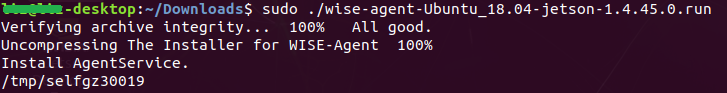
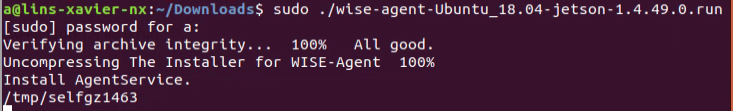
Commit message

Changed region(s): [[0.0, 0.0, 1.0, 1.0]]

diff --git a/CollectDataForAnalytics.md b/CollectDataForAnalytics.md
@@ -1,1 +1,144 @@
-*(To be published soon, email wowaiot.wseg@advantech.com to get notified)*
+# OPS | Collect data for analytics
+
+Here will introduce a process to obtain an original image before inferencing and then send it to Edge Impulse studio to increase data for next retraining. Moreover it also collect inference results and reserve them in DeviceOn for further analysis later.
+
+## Turn on upload synchronization settings in DeviceOn server web UI
+
+* Click `System` in the `Settings` menu on the left.
+* In the upper right options, click `System Settings` and then select `Devic File Synchonization` from the drop-down menu of `Item`.
+* The default value of `Sync Interval(minute)` is `10` minutes as a period for synchronous uploading.
+
+>NOTE: If you do not see the above menu, please contact your `Device` administrators to modify your account access permission.
+
+<p align="center">
+  <img width="600" src="image\Collect_data_for_analytics_01.png">
+</p>
+
+* Next click `List` in the `Device` menu on the left.
+* Click the `MORE` icon on the right side of the device `air020`.
+
+<p align="center">
+  <img width="600" src="image\Collect_data_for_analytics_02.png">
+</p>
+
+* Check if 'Devic File Synchonization' is enabled and then click `Confirm` to complete the setup.
+
+<p align="center">
+  <img width="600" src="image\Collect_data_for_analytics_03.png">
+</p>
+
+* Back to the edge device (AIR-020), let's create directories for saving captured images and inference results.
+
+```sh
+cd /opt/linux-sdk-python/examples/image
+sudo mkdir Original_Image
+sudo mkdir Inference_results
+```
+
+* Then specify the upload synchronization directory on the edge device (AIR-020) by editing the `FileSync.ini` file.
+
+```sh
+sudo gedit /usr/local/AgentService/FileSync.ini
+```
+
+* In the `FileSync.ini` file, change `Dir=XXX...` to the specified `Dir=/opt/linux-sdk-python/examples/image/Inference_results`.
+* Then click `Save` to save and close the `FileSync.ini` file.
+
+<p align="center">
+  <img width="600" src="image\Collect_data_for_analytics_04.png">
+</p>
+
+* After restarting the AIR-020 and the inference app will be launched automatically as well.
+* Go to the `DeviceOn` server web UI, click `List` in `Device` on the left menu.
+* Click the `MORE` icon on the right side of `air020`.
+* Check whether its `Local Path:` of `Device File Synchronization` is `/opt/linux-sdk-python/examples/image/Inference_results`.
+
+<p align="center">
+  <img width="600" src="image\Collect_data_for_analytics_05.png">
+</p>
+
+* In this repo, the DEMO app will save a captured image and its inference result into respective directories in AIR-020 per five seconds.
+
+<p align="center">
+  <img width="600" src="image\Collect_data_for_analytics_06.png">
+</p>
+
+* After starting the inference app for ten minutes, go to the DeviceOn server web UI and then click its left menu `Event Log` to be able to find the data transferring information.
+
+<p align="center">
+  <img width="600" src="image\Collect_data_for_analytics_07.png">
+</p>
+
+* In addition, captured images in the `Original_Image` directory can be uploaded to the `Edge Impulse` platform according to the section of [OPS | Collect data for model retraining](CollectDataForRe-training.md).
+
+## How to modify the period for saving inference result at AIR-020 
+* For example, modify the default vaule of `5` in `/opt/linux-sdk-python/examples/image/classify.py`, as shown in the column 203 therein.
+* `5` means to save data per five seconds. If it's changed to `6`, it will save data per six seconds correspondingly.
+
+```sh
+if (seconds % 5) == 0 and (seconds > sec_list1) :
+```
+
+* To stop saving data at AIR-020, use the symbol `"""` to igore the following codes from the column `203` to `230`.
+
+```sh
+"""
+if (seconds % 5) == 0 and (seconds > sec_list1) : 
+			#seconds.tm_sec = seconds.tm_sec + 1
+			#if n == 1:
+	###
+	local_time = time.localtime()
+	timeString = time.strftime("%Y_%m_%d_%H_%M_", local_time)
+	###
+	i = i + 1
+
+	print ('img.shape2', original_image.shape)
+	#original_img_pad = "./Original_image/" + str(timeString) + str(i)+".jpg"
+	#cv2.imwrite(original_img_pad, original_image)
+			
+	img_pad = "/opt/linux-sdk-python/examples/image/Inference_results/" + str(timeString) + str(i)+".jpg"
+	cv2.imwrite(img_pad, cv2.cvtColor(img, cv2.COLOR_RGB2BGR))
+	timestamp = str(timeString) + str(i)
+	data_list_1.insert(0, timestamp)
+
+	with open('/opt/linux-sdk-python/examples/image/Inference_results/Inference_results.csv', 'a') as file:
+		#writer = csv.writer(file,delimiter=';')
+		writer = csv.writer(file)
+		#for item in str(data_list_1):
+		 #   writer.writerows(item)
+		writer.writerow((data_list_1))
+
+
+	seconds_1 = int(seconds_threshold) + 1
+	sec_list.append(seconds_1)
+"""
+```
+
+## How to modify the period for saving a captured image at AIR-020 
+* For example, modify the default vaule of `5` in `/opt/linux-sdk-python/edge_impulse_linux/image.py`, as shown in the column 75 therein.
+* `5` means to save a image per five seconds. If it's changed to `6`, it will save data per six seconds correspondingly.
+
+```sh
+if (seconds % 5) == 0:
+```
+
+* To stop saving images at AIR-020, use the symbol `"""` to igore the following codes from the column `75` to `88`.
+
+```sh
+"""
+if (seconds % 5) == 0:
+	local_time = time.localtime()
+	timeString = time.strftime("%Y_%m_%d_%H_%M_%S_", local_time)
+	img_test = img
+	i = 1
+	
+	img_pad = "Original_image/"+str(timeString) +".jpg"
+	if os.path.isfile(img_pad) == True:
+		#cv2.imwrite("Original_image/"+timeString+"NG.jpg",img_test)
+		print #("YA" )
+	else:
+		#print ("NO YA")
+		cv2.imwrite(img_pad, img_test)
+	i = i + 1
+"""
+```

diff --git a/DeployAIToAnyEdge.md b/DeployAIToAnyEdge.md
@@ -6,11 +6,70 @@ Through the IoT device platform called `DeviceOn` to provide OTA deployment to h
 - [A 90-day trial key](https://www.youtube.com/watch?v=tjZUchu0v2I&t=64s) for DeviceOn server activation.
 - AIR-020 with Linux [Ubuntu 18.04](https://campaign.advantech.online/en/embedded_software/index.html)/[JetPack 4.5.1(or later)](http://ess-wiki.advantech.com.tw/view/IoTGateway/BSP/Linux/OS_Support_List_Jetpack_4.5.1_L4T_R32.5.1) ready.
 
+## Install Edge Impulse Linux Python SDK in AIR-020
+
+* Install necessary Python packages with the following commands.
+
+```sh
+sudo apt install python3-pip
+
+sudo apt install python3-testresources
+
+sudo apt-get install python3-pyaudio
+```
+
+> NOTE: Please remember to use *Root* privileges by this command.
+
+```sh
+sudo su
+```
+
+* Download a verified Linux Python SDK package from this Github post.
+
+```sh
+cd /opt
+git clone https://github.com/hsulin0806/linux-sdk-python_20230103.git
+```
+
+* Modify the directory name of the downloaded Linux Python SDK.
+
+```sh
+mv linux-sdk-python_20230103 linux-sdk-python
+```
+
+* It's recommanded to set up and use a Python virtual environment to avoid messing up the orginal operation system settings.
+
+```sh
+python3 -m venv --system-site-packages EI_DEMO
+
+source ./EI_DEMO/bin/activate
+```
+
+* Then install other required packages.
+
+```sh
+pip3 install --upgrade pip
+
+pip3 install scikit-build
+
+pip3 install protobuf==3.3.0
+
+python3 -m pip install edge_impulse_linux==1.0.7
+
+python3 -m pip install numpy==1.19.4
+```
+
+* The above completes the runtime installation required by the introduced DEMO application to run on AIR-020.
+
+<p align="center">
+  <img width="600" src="image\Deploy_AI_to_any_edge_00.png">
+</p>
+
 ## Connect AIR-020 to DeviceOn server
 In this repo, we used DeviceOn to simplify and accelerate the whole pipeline of edge AI development and deployment.
 
 #### 1. Install WISE-Agent in your AI device
-* Install [WISE-Agent](https://eiot.blob.core.windows.net/deviceon/WISE-Agent.zip) with the file of `wise-agent-Ubuntu_18.04-jetson-1.4.45.0.run` (or later) therein for Unbuntu 18.04 that we implemented in this repo.
+* Install [WISE-Agent](https://eiot.blob.core.windows.net/deviceon/WISE-Agent.zip) with the file of `wise-agent-Ubuntu_18.04-jetson-1.4.49.0.run` (or later) therein for Unbuntu 18.04 that we implemented in this repo.
 
 <p align="center">
   <img width="600" src="image\Deploy_AI_to_any_edge_01.png">

diff --git a/EncapsulateAPortableAIApplication.md b/EncapsulateAPortableAIApplication.md
@@ -35,7 +35,8 @@ chmod 666 ~/EI_ABC.fifo
 exec 4<> ~/EI_ABC.fifo
 wait
 cp /home/modelfile_0456.eim ~/my_model.eim
-edge-impulse-linux-runner --api-key <API Key> --verbose --model-file ~/my_model.eim 2>&1 | tee >&4
+source /opt/EI_DEMO/bin/activate
+python3 /opt/linux-sdk-python/examples/image/classify.py ~/my_model.eim 
 ```  
 > Replace `<API Key>` with the `API Key` of the Edge Impulse project mentioned above.
 
@@ -44,13 +45,19 @@ edge-impulse-linux-runner --api-key <API Key> --verbose --model-file ~/my_model.
 ```sh
 [Unit]
 Description=EI_demo
+After=graphical-session.target multi-user.target website.service
 
 [Service]
 Environment=DISPLAY=:0
-Environment="XAUTHORITY=/path/to/xauthority"
+Environment=XAUTHORITY=/run/user/1000/gdm/Xauthority
+#Environment=XAUTHORITY=/root/.Xauthority
 Type=simple
+ExecStartPre=-/bin/sleep 20
 ExecStart=/opt/EI_run.sh
 Restart=always
+#RestartSec=20s
+Timeout=infinity
+#WorkingDirectory=/home/a
 
 [Install]
 WantedBy=multi-user.target
@@ -59,11 +66,10 @@ WantedBy=multi-user.target
 * The third(/last) script is `Deploy.sh` which mainly describes the overall pipeline for edge app deployment. Here it starts with downloading and updating the AI model, and then executes two scripts of `EI_run.sh` and `EI_demo.service` to complete the pipeline.
   
 ```sh
-#!/bin/bash
 systemctl stop EI_demo
 edge-impulse-linux-runner --api-key <API Key> --download /home/modelfile_0456.eim 
 cp -f ./EI_demo.service /etc/systemd/system/
-cp -f ./EI_stop_run.sh /opt/
+cp -f ./EI_run.sh /opt/
 chmod 644 /etc/systemd/system/EI_demo.service
 chmod 777 /opt/EI_run.sh
 systemctl daemon-reload
